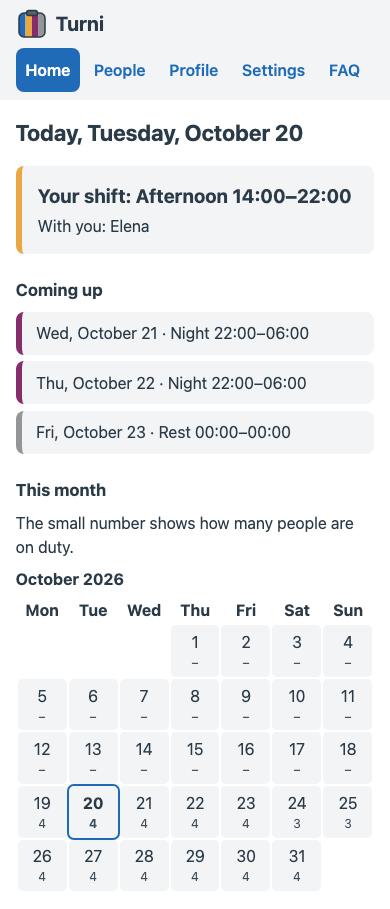
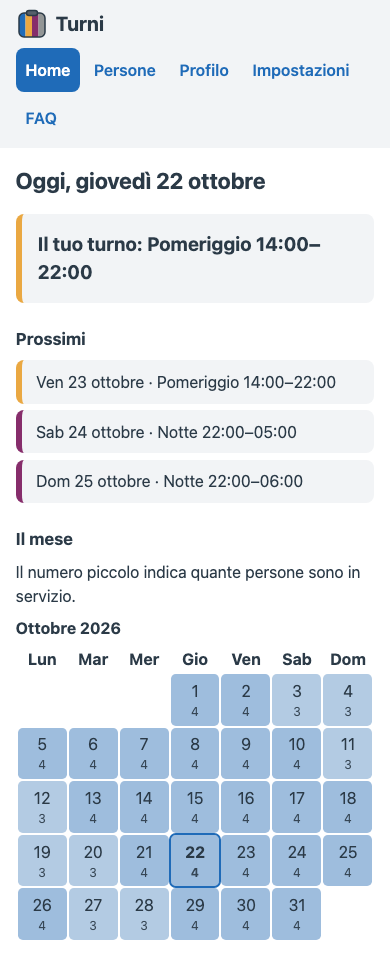
Retakes the screenshots and fixes the preview image height

diff --git a/src/pages/LandingPage.tsx b/src/pages/LandingPage.tsx
@@ -32,7 +32,7 @@ export function LandingPage({
         src={`${import.meta.env.BASE_URL}home.png`}
         alt={t('landing.preview')}
         width="390"
-        height="909"
+        height="958"
       />
       <button type="button" className="button" onClick={onStart}>
         {t('landing.start')}
